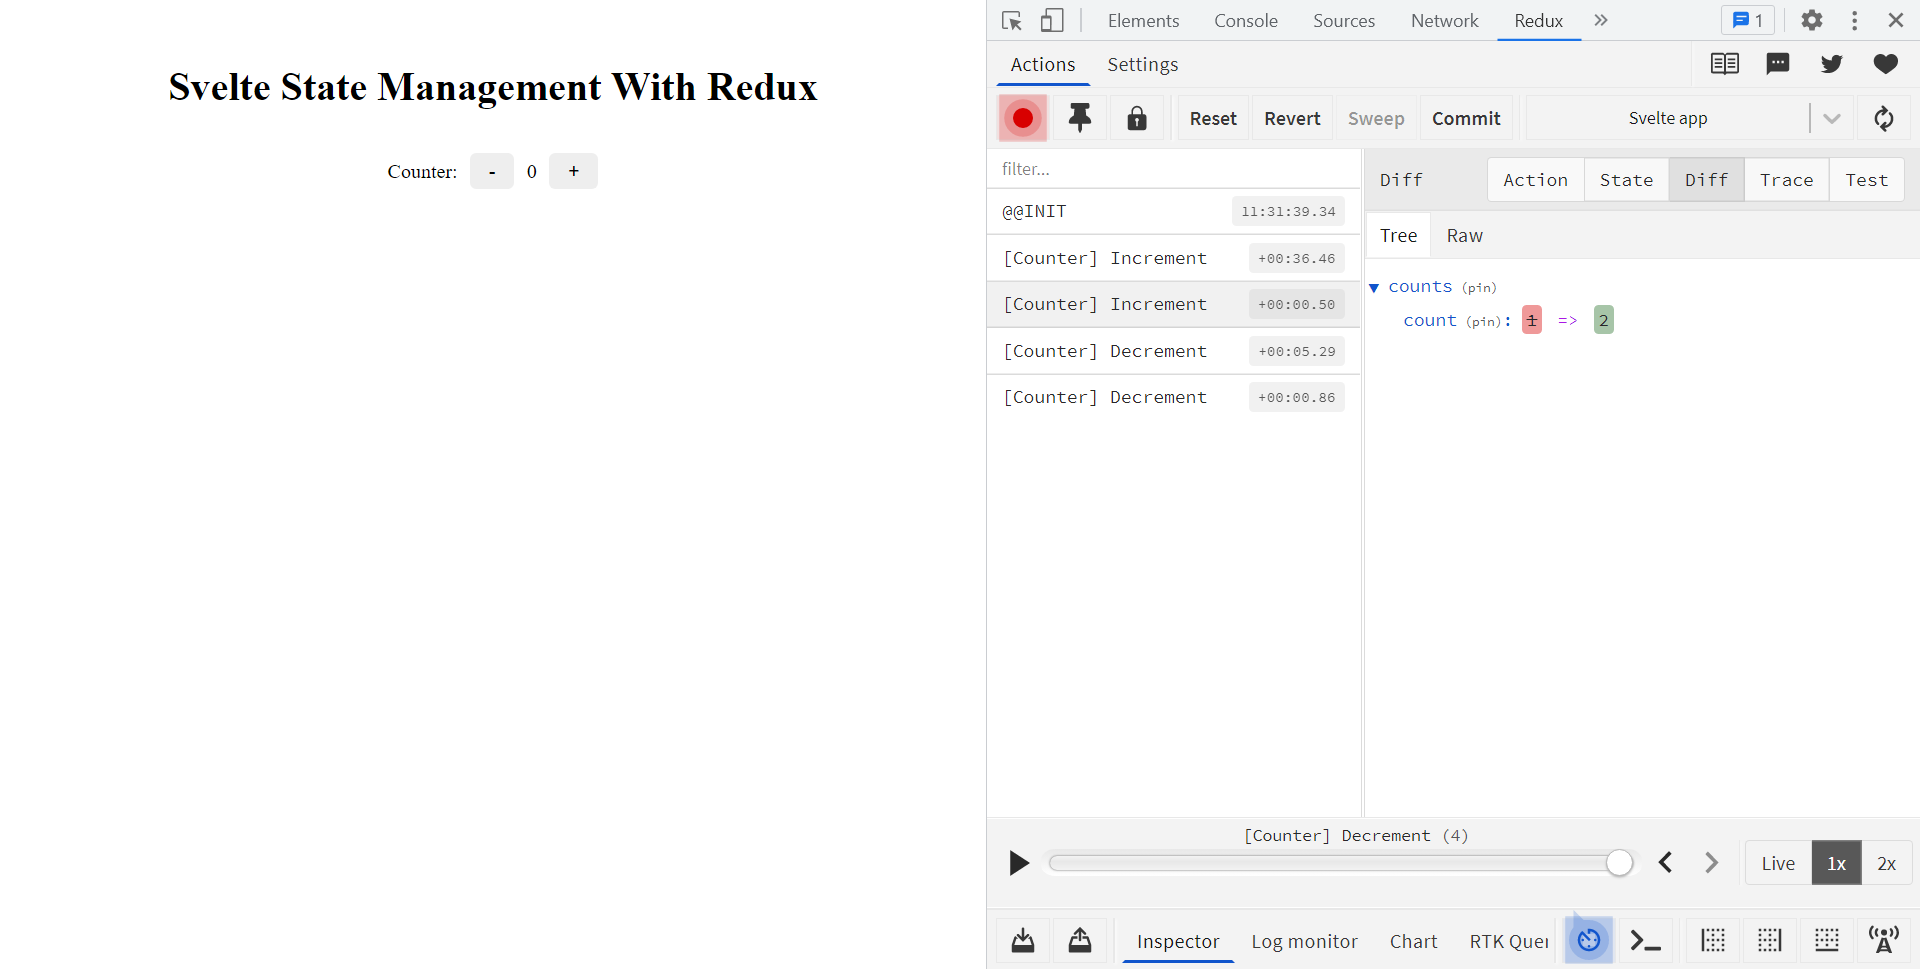
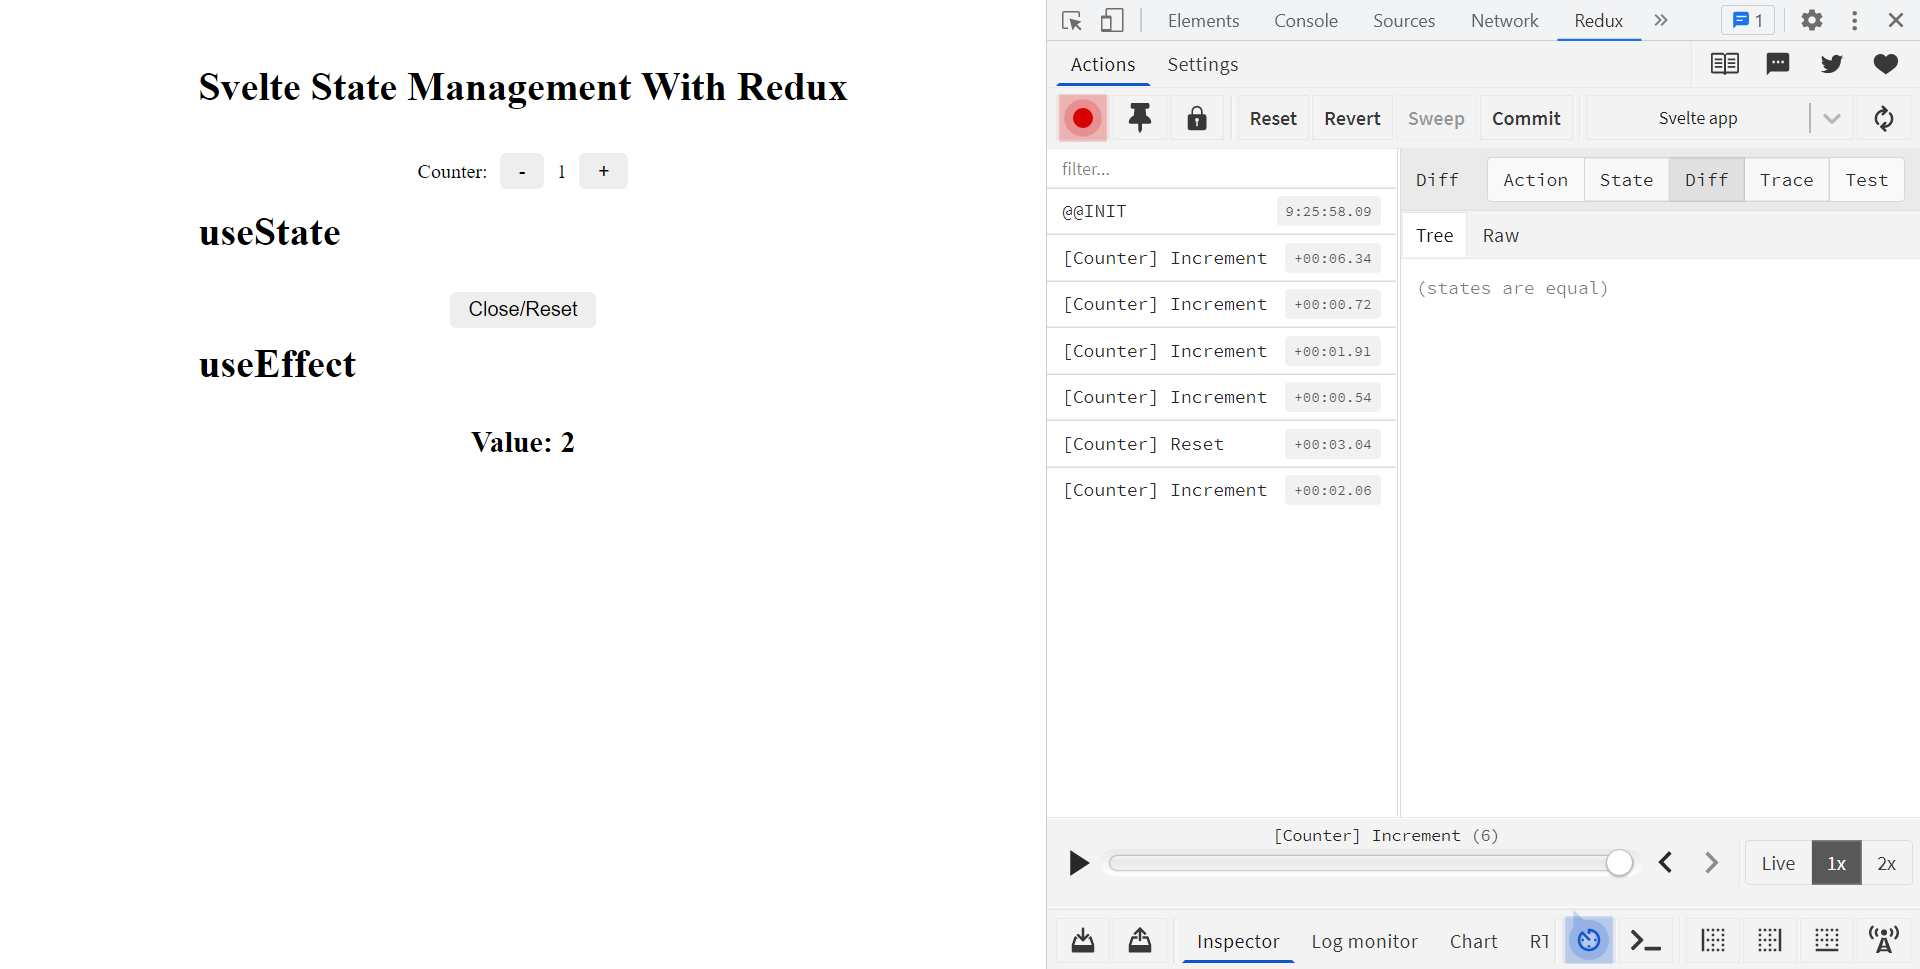
Add feature setState and useEffect

diff --git a/src/index.ts b/src/index.ts
@@ -3,7 +3,9 @@ import { createDispatch } from './createDispatch';
 import { createSelector } from './createSelector';
 import { createFeatureSelector } from './createFeatureSelector';
 import { createSubscribe } from './createSubscribe';
-import { createBindReduxStore, TypedDispatch } from './bindReduxStore';
+import { createBindReduxStore, TypedDispatch } from './createBindReduxStore';
+import { createUseState as createNewUseState } from './createUseState';
+import { createUseEffect as createNewUseEffect } from './createUseEffect';
 
 export function creatSvelteReduxStore<T = any>(store: Store<T>) {
   const useDefaultDispatch = createDispatch(store);
@@ -29,4 +31,16 @@ export function creatSvelteReduxStore<T = any>(store: Store<T>) {
     useFeatureSelector,
     useSubscribe,
   };
+}
+
+export function createUseState() {
+  const useState = createNewUseState();
+  return { useState };
+}
+
+export const { useState } = createUseState();
+
+export function createUseEffect(onMount: (fn: () => any) => void) {
+  const useEffect = createNewUseEffect(onMount);
+  return { useEffect };
 }

diff --git a/src/createUseState.ts b/src/createUseState.ts
@@ -1,0 +1,37 @@
+import {
+  writable,
+  type Subscriber,
+  type Unsubscriber,
+  type Writable,
+} from 'svelte/store';
+
+declare type Invalidator<T> = (value?: T) => void;
+
+declare type $State<T> = {
+  subscribe: (
+    this: void,
+    run: Subscriber<T>,
+    invalidate?: Invalidator<T>
+  ) => Unsubscriber;
+};
+
+declare type SetState<T> = (this: void, value: T) => void;
+
+function createGetState<TState>(store: Writable<TState>) {
+  const { subscribe } = store;
+  return { subscribe };
+}
+
+export function createUseState() {
+  return function useState<TState = any>(
+    init: TState
+  ): [$State<TState>, SetState<TState>] {
+    const store = writable<TState>(init);
+
+    const $state = createGetState<TState>(store);
+
+    const setState = store.set;
+
+    return [$state, setState];
+  };
+}

diff --git a/src/createSelector.ts b/src/createSelector.ts
@@ -7,16 +7,18 @@ import {
 
 declare type Invalidator<T> = (value?: T) => void;
 
+declare type $State<T> = {
+  subscribe: (
+    this: void,
+    run: Subscriber<T>,
+    invalidate?: Invalidator<T>
+  ) => Unsubscriber;
+};
+
 export function createSelector<TState = unknown>(store: Readable<TState>) {
   return function useSelector<TState, TSelected extends unknown>(
     selector: (values: TState) => TSelected
-  ): {
-    subscribe: (
-      this: void,
-      run: Subscriber<TSelected>,
-      invalidate?: Invalidator<TSelected>
-    ) => Unsubscriber;
-  } {
+  ): $State<TSelected> {
     const { subscribe } = derived<
       Readable<TState>,
       TSelected

diff --git a/src/createUseEffect.ts b/src/createUseEffect.ts
@@ -1,0 +1,13 @@
+export function createUseEffect(onMount: (fn: () => any) => void) {
+  return function useEffect(fn: () => void, params: any[]) {
+    function onChange(...params: any[]): void {
+      fn();
+    }
+
+    if (!params.length) {
+      return onMount(fn);
+    }
+
+    return onChange(...params);
+  };
+}

diff --git a/README.md b/README.md
@@ -33,7 +33,12 @@ import { applyMiddleware, createStore, type Middleware } from 'redux';
 import { composeWithDevTools } from 'redux-devtools-extension';
 import thunk from 'redux-thunk';
 import rootReducers from './reducers';
-import { creatSvelteReduxStore } from 'svelte-redux-store'; //import this line
+import {
+  createUseEffect,
+  createUseState,
+  creatSvelteReduxStore,
+} from 'svelte-redux-store'; //import this line
+import { onMount } from 'svelte';
 
 export type AppState = ReturnType<typeof rootReducers>;
 
@@ -56,6 +61,12 @@ export const {
   useFeatureSelector,
   useSubscribe,
 } = creatSvelteReduxStore<AppState>(store);
+
+// create setState (if you want)
+export const { useState } = createUseState();
+
+// create useEffect (if you want)
+export const { useEffect } = createUseEffect(onMount);
 ```
 
 ### Step 2 Create counter action type
@@ -65,6 +76,7 @@ export const {
 export enum CountActionTypes {
   COUNTER_INCREMENT = '[Counter] Increment',
   COUNTER_DECREMENT = '[Counter] Decrement',
+  COUNTER_RESET = '[Counter] Reset',
 }
 
 export interface CounterIncrementAction {
@@ -75,7 +87,14 @@ export interface CounterDecrementAction {
   readonly type: CountActionTypes.COUNTER_DECREMENT;
 }
 
-export type Action = CounterIncrementAction | CounterDecrementAction;
+export interface CounterResetAction {
+  readonly type: CountActionTypes.COUNTER_RESET;
+}
+
+export type Action =
+  | CounterIncrementAction
+  | CounterDecrementAction
+  | CounterResetAction;
 ```
 
 ### Step 3 Create counter creator
@@ -91,6 +110,10 @@ export const increment = () => async (dispatch: Dispatch<Action>) => {
 
 export const decrement = () => async (dispatch: Dispatch<Action>) => {
   dispatch({ type: CountActionTypes.COUNTER_DECREMENT });
+};
+
+export const reset = () => async (dispatch: Dispatch<Action>) => {
+  dispatch({ type: CountActionTypes.COUNTER_RESET });
 };
 ```
 
@@ -119,6 +142,9 @@ export const counterReducer = (
     case CountActionTypes.COUNTER_DECREMENT:
       return { ...state, count: state.count - 1 };
 
+    case CountActionTypes.COUNTER_RESET:
+      return { ...state, count: 0 };
+
     default:
       return state;
   }
@@ -144,10 +170,19 @@ export default rootReducers;
 ```svelte
 // src/App.svelte
 <script lang="ts">
-  import { increment, decrement } from './store/creators';
-   import { useDispatch,useSelector, useStore, useSubscribe, type AppState } from './store/store';
+// import {useState} from 'svelte-redux-store'
+  import { decrement, increment, reset } from './store/creators';
+  import {
+    useDispatch,
+    useEffect,
+    useState,
+    useStore,
+    type AppState,
+  } from './store/store';
   const store = useStore();
   // const dispatch = useDispatch();
+
+  const [isOpen, setIsOpen] = useState(false);
 
   const decrement = () => {
     store.dispatch(decrement());
@@ -168,6 +203,27 @@ export default rootReducers;
 
   // let count:number
   // useSubscribe((state:AppState) => { count = state.counts.count })
+
+
+  const handleClick = () => {
+    setIsOpen(!$isOpen);
+
+    if (!$isOpen && $count > 0) {
+      store.dispatch(reset());
+    }
+  };
+
+  useEffect(() => {
+    alert('useEffect onMount');
+  }, []);
+
+  let value;
+
+  $: useEffect(() => {
+    if ($isOpen) {
+      value = $count * 2;
+    }
+  }, [$isOpen, $count]);
 </script>
 
 <div class="app">
@@ -178,12 +234,25 @@ export default rootReducers;
         <p>Counter:</p>
         <div class="btn-group">
           <button class="btn" on:click={decrement}> - </button>
-          <!-- USE SELECTOR -->
           <p>{$count}</p>
-          <!-- USE SUBSCRIBE -->
-          <!-- <p>{count}</p> -->
           <button class="btn" on:click={increment}> + </button>
         </div>
+      </div>
+    </div>
+    <h1>useState</h1>
+    <div class="list">
+      <div class="list-item">
+        <button class="btn" on:click={handleClick}>
+          {#if $isOpen}Close/Reset{:else}Show{/if}</button
+        >
+      </div>
+    </div>
+    <h1>useEffect</h1>
+    <div class="list">
+      <div class="list-item">
+        {#if $isOpen}
+          <h2>Value: {value}</h2>
+        {/if}
       </div>
     </div>
   </div>
@@ -291,6 +360,16 @@ export default {
   // ...
 };
 ```
+
+## API
+
+[useStore](useStore)
+[useDispatch](useDispatch)
+[useSelector](useSelector)
+[useFeatureSelector](useFeatureSelector)
+[useSubscribe](useFeatureSelector)
+[useState](useState)
+[useEffect](useEffect)
 
 ## Inspire by
 
